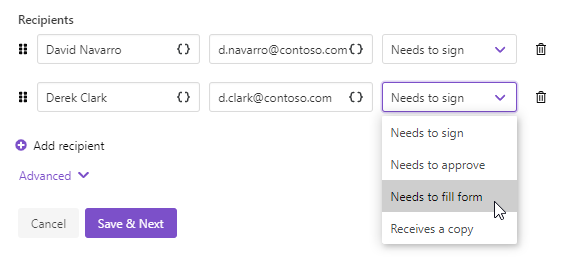
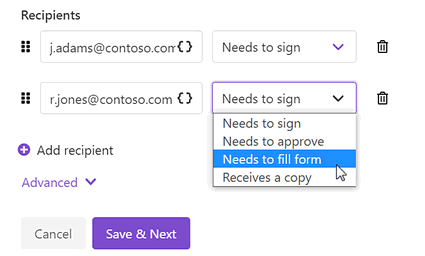
Adobe Sign delivery actualized

diff --git a/source/user-guide/processes/deliveries/adobe-sign.rst b/source/user-guide/processes/deliveries/adobe-sign.rst
@@ -42,7 +42,7 @@ You can customize more settings - for that, expand **Advanced**:
 
 Here you can switch on **Sequential signing**, then just drag and drop recipients to define an order in which they should sign the document. Like in the gif below:
 
-.. image:: ../../../_static/img/user-guide/processes/docusign-sequental.gif
+.. image:: ../../../_static/img/user-guide/processes/adobe-sign-sequental.gif
     :alt: drag and drop recipients to change the sequence of signing
 
 Also, you can set:
@@ -95,25 +95,17 @@ Specify recipients dynamically based on your data
 
 You may want to set recipients dynamically for each document. In this case, you can use tokens inside the Email field. Data passed to the process will define who will receive the document.
 
-.. image:: ../../../_static/img/user-guide/processes/email-token-docusign.png
-    :alt: tokens inside eversign recipients
+.. image:: ../../../_static/img/user-guide/processes/email-token-adobe-sign.png
+    :alt: tokens inside adobe sign recipients
 
 The token can contain not only one email address but the list of them comma- or semicolon-separated. Like this:
 
 .. code:: json
     
     {
-        "emails": "Derek Clark <d.clark@contoso.com>; Jessica Adams <j.adams@contoso.com>"
+        "emails": "d.clark@contoso.com>; j.adams@contoso.com; r.jones@contoso.com"
     }
 
-Mind that if you put the list of recipients into the single field, the information you typed in the Name field will be skipped.
-
-You can specify recipient names in the list by placing names before the email address. 
-
-.. image:: ../../../_static/img/user-guide/processes/name-before-email.png
-    :alt: name before email
-
-Or you can omit that, and the email address will be displayed as a recipient name.
 
 In case Sequential signing is enabled, the order in which recipients receive the document will be the same as in the list.
 
